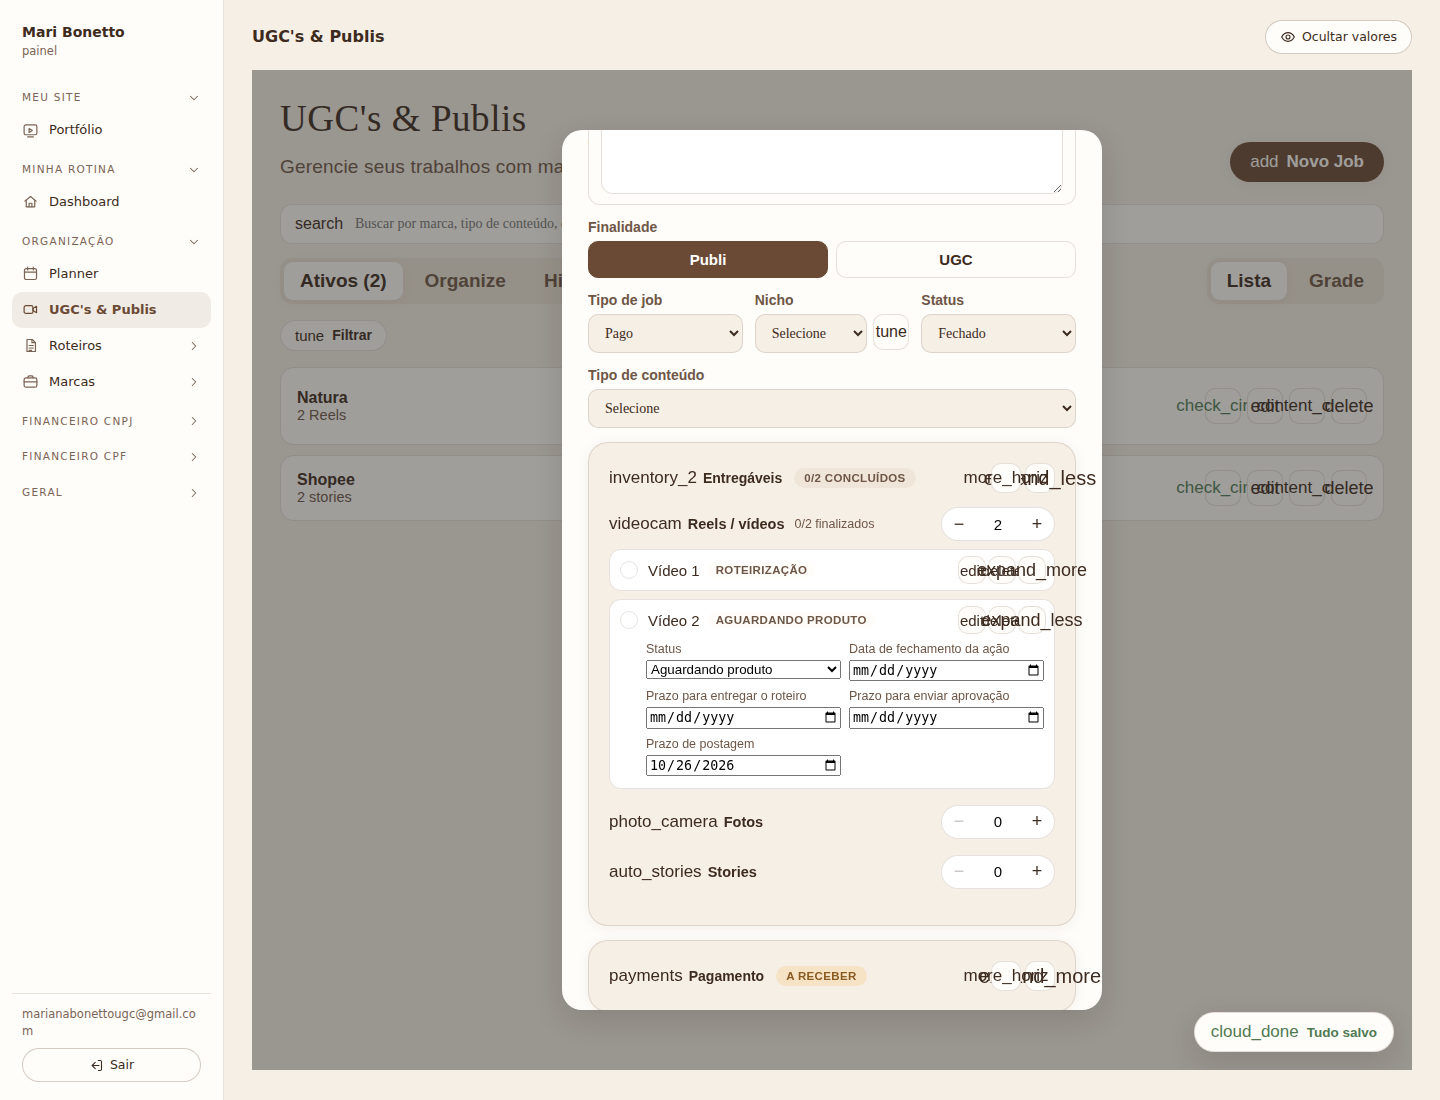
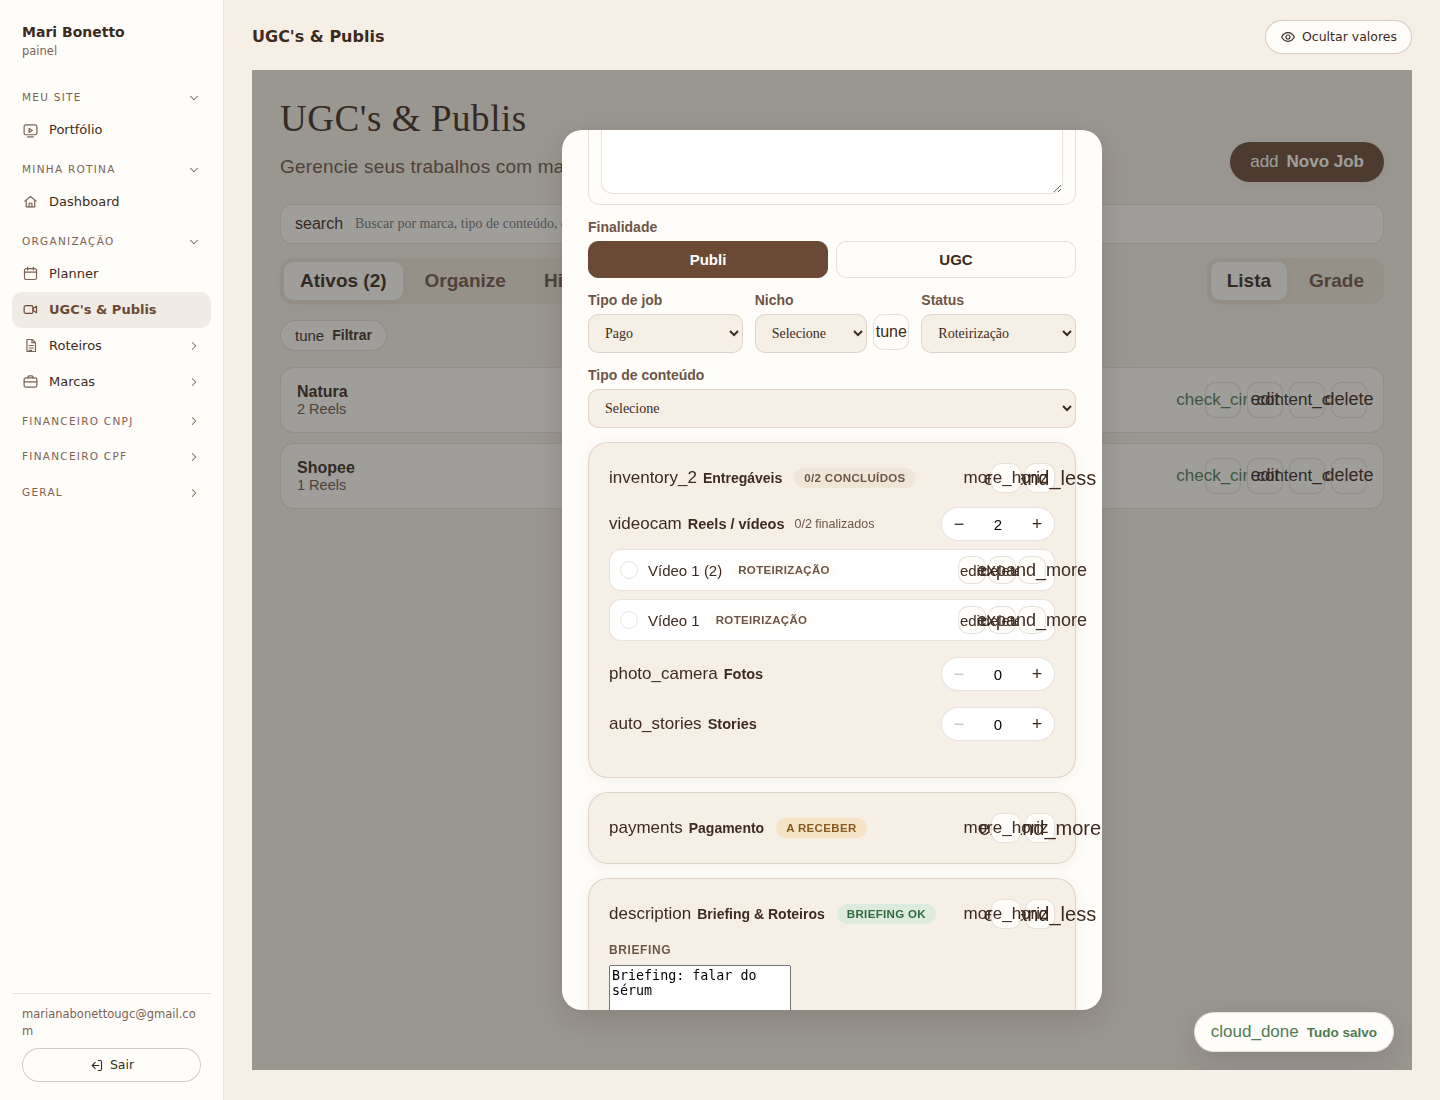
Status: Aguardando briefing (primeira etapa, no job, nos Reels e nas bolinhas do Dashboard)
Claude-Session: https://claude.ai/code/session_01BYPpPeCPa8ZJ1JieUtNXtS

diff --git a/admin/gestao/index.html b/admin/gestao/index.html
@@ -176,7 +176,7 @@
   .db-prio-nome b{ font-family:var(--db-serif); font-weight:400; font-size:28px; line-height:1.15; }
   .db-selo{ background:var(--db-bege); color:var(--db-cafe); font-size:12px; font-weight:500; letter-spacing:.04em; text-transform:uppercase; padding:5px 12px; border-radius:8px; }
   .db-prio-sub{ margin:4px 0 0; font-size:15px; color:var(--db-suave); }
-  .db-etapas{ display:grid; grid-template-columns:repeat(7,1fr); }
+  .db-etapas{ display:grid; grid-template-columns:repeat(8,1fr); }
   .db-etapas-grande{ margin-top:20px; }
   .db-etapa{ position:relative; display:flex; flex-direction:column; align-items:center; gap:8px; }
   .db-etapa::before{ content:""; position:absolute; top:7px; left:-50%; width:100%; height:1.5px; background:var(--db-linha2); }
@@ -890,7 +890,7 @@ function Toggle({on, onClick}){
 
 /* ---------- STATUS maps ---------- */
 // status do job (out/2026, pedido da Mari); os antigos continuam aparecendo nos jobs que já tinham
-const JOB_STATUS = ["Aguardando Produto","Roteirização","Aprovação de Roteiro","Conteúdo Entregue","Aprovação do Conteúdo","Refação","Finalizado","Cancelado"];
+const JOB_STATUS = ["Aguardando Briefing","Aguardando Produto","Roteirização","Aprovação de Roteiro","Conteúdo Entregue","Aprovação do Conteúdo","Refação","Finalizado","Cancelado"];
 const statusDoJobLista = (state, atual) => { const l = [...JOB_STATUS, ...((state && state.statusJobExtras)||[])]; return atual && !l.includes(atual) ? [atual, ...l] : l; };;
 const JOB_FINISHED = ["Finalizado","Cancelado"];
 const isHistorico = (j) => j.status==="Finalizado" || (j.pagamento && j.pagamento.status==="Pago");
@@ -898,13 +898,13 @@ const jobStatusTone = (s) => ({
   "Lead":"gray","Em Negociação":"yellow","Fechado":"blue","Aguardando Aprovação":"wine","Aguardando Produto":"yellow",
   "Aprovado":"blue","Planejado":"yellow","Em Produção":"blue","Gravado":"wine","Conteúdo Entregue":"green",
   "Finalizado":"green","Cancelado":"gray",
-  "Roteirização":"yellow","Aprovação de Roteiro":"wine","Aprovação do Conteúdo":"wine","Refação":"yellow"
+  "Aguardando Briefing":"yellow","Roteirização":"yellow","Aprovação de Roteiro":"wine","Aprovação do Conteúdo":"wine","Refação":"yellow"
 }[s] || "gray");
 const KANBAN_COLORS = {
   "Lead":"#3d2b20","Em Negociação":"#6b4a35","Fechado":"#a87058","Aguardando Aprovação":"#8a634b","Aguardando Produto":"#6B4E3D",
   "Aprovado":"#a87058","Planejado":"#3d2b20","Em Produção":"#6b4a35","Gravado":"#8a634b","Conteúdo Entregue":"#a87058",
   "Finalizado":"#6B4E3D","Cancelado":"#8a634b",
-  "Roteirização":"#6b4a35","Aprovação de Roteiro":"#8a634b","Aprovação do Conteúdo":"#8a634b","Refação":"#a87058"
+  "Aguardando Briefing":"#3d2b20","Roteirização":"#6b4a35","Aprovação de Roteiro":"#8a634b","Aprovação do Conteúdo":"#8a634b","Refação":"#a87058"
 };
 const PAYMENT_METHODS = ["PIX","Transferência","Boleto","Cartão","PayPal","Outro"];
 const MOEDAS = [{code:"BRL",symbol:"R$"},{code:"USD",symbol:"US$"},{code:"EUR",symbol:"€"}];
@@ -915,7 +915,7 @@ const fmtMoneyCur = (v, moeda) => {
 const NICHOS_DEFAULT = ["Beleza","Maternidade","Pet","Casa","Moda","Eletrônicos","Alimentos","Infantil","Fitness","Outro"];
 // status de cada vídeo/story do job: as mesmas etapas da "Minha prioridade" do Dashboard (a última é Entregue)
 // out/2026 (pedido da Mari): as etapas de cada Reels/story; a última (Finalizado) marca como concluído
-const ROTEIRO_STATUS_OPTIONS = ["Aguardando produto","Roteirização","Aprovação de roteiro","Conteúdo entregue","Aprovação do conteúdo","Refação","Finalizado"];
+const ROTEIRO_STATUS_OPTIONS = ["Aguardando briefing","Aguardando produto","Roteirização","Aprovação de roteiro","Conteúdo entregue","Aprovação do conteúdo","Refação","Finalizado"];
 const STATUS_FINAL = (tipo) => tipo==="fotos" ? "Entregue" : "Finalizado";
 // nomes antigos (antes de out/2026) -> nomes novos
 const STATUS_VIDEO_ANTIGO = {"Roteiro pendente":"Roteirização", "Roteiro pronto":"Aprovação de roteiro", "Gravado":"Aprovação de roteiro", "Editado":"Aprovação do conteúdo",
@@ -1179,7 +1179,7 @@ function processRecurringJobs(state){
     if(j.recorrencia.encerrarEm && j.recorrencia.proximaCriacao > j.recorrencia.encerrarEm) return j;
     changed = true;
     const clone = {
-      ...j, id:uid(), criadoEm: today, status:"Aguardando Produto",
+      ...j, id:uid(), criadoEm: today, status:"Aguardando Briefing",
       prazoEntrega: j.recorrencia.proximaCriacao, dataEntregaReal:"",
       entregaveis: resetEntregaveisConcluido(j.entregaveis || emptyEntregaveis()),
       pagamento: {...(j.pagamento||{}), status:"Em aberto", dataPagamento:""},
@@ -1275,8 +1275,8 @@ function LineChart({data, width, height}){
 /* ---------- DASHBOARD (board novo, igual ao modelo da Mari) ---------- */
 const ETAPAS_JOB = ROTEIRO_STATUS_OPTIONS;
 // etapa do job na "Minha prioridade" (ordem de prioridade em etapaDoJob); as bolinhas são clicáveis (jobNaEtapa)
-const ETAPA_JOB_DO_STATUS = {"Aguardando Produto":0, "Roteirização":1, "Aprovação de Roteiro":2, "Em Produção":2, "Gravado":2, "Conteúdo Entregue":3, "Aguardando Aprovação":4, "Aprovação do Conteúdo":4, "Refação":5, "Finalizado":6};
-const ETAPA_JOB_DO_QUADRO = {"Ideias":1, "Roteirização":1, "Revisão":1, "Em Aprovação":2, "Gravação":2, "Edição":2, "Pronto para postar":4, "Pronto p/ Postar":4, "Finalizado":6};
+const ETAPA_JOB_DO_STATUS = {"Aguardando Briefing":0, "Aguardando Produto":1, "Roteirização":2, "Aprovação de Roteiro":3, "Em Produção":3, "Gravado":3, "Conteúdo Entregue":4, "Aguardando Aprovação":5, "Aprovação do Conteúdo":5, "Refação":6, "Finalizado":7};
+const ETAPA_JOB_DO_QUADRO = {"Ideias":2, "Roteirização":2, "Revisão":2, "Em Aprovação":3, "Gravação":3, "Edição":3, "Pronto para postar":5, "Pronto p/ Postar":5, "Finalizado":7};
 const etapaDoJob = (job, roteiros) => Math.max(ETAPA_JOB_DO_STATUS[job && job.status] ?? 0, etapaDoAndamento(job, roteiros));
 // o status do job (Em Produção, Conteúdo Entregue...) é o mínimo; o andamento dos conteúdos pode estar mais adiantado
 const etapaDoAndamento = (job, roteiros) => {
@@ -3001,7 +3001,7 @@ function defaultJobObj(){
     tipoPagamento:"unico", divisaoParcelas:"50-50", parcelasPersonalizadas:[],
     recorrente:false,
     recorrencia:{ frequencia:"Mensal (30d)", intervaloDias:30, proximaCriacao:"", encerrarEm:"", gerarReceita:true },
-    status:"Aguardando Produto",
+    status:"Aguardando Briefing",
     roteiroConteudo:"", roteiroStatus:"Em criação", roteiroTemplate:"",
     nf:{ precisa:false, status:"Pendente", numero:"", dataEmissao:"", valor:"", arquivo:"" },
     pagamento:{ status:"Em aberto", forma:"PIX", dataPrevista:"", dataPagamento:"", comprovante:"" },
@@ -3906,7 +3906,7 @@ function Jobs({state, updateState}){
     updateState({...state, jobs, transacoes});
   }
   function duplicate(job){
-    const clone = { ...job, id:uid(), marca: job.marca+" (cópia)", status:"Aguardando Produto", criadoEm:todayISO(), dataEntregaReal:"",
+    const clone = { ...job, id:uid(), marca: job.marca+" (cópia)", status:"Aguardando Briefing", criadoEm:todayISO(), dataEntregaReal:"",
       pagamento:{...(job.pagamento||{}), status:"Em aberto", dataPagamento:""},
       entregaveis: resetEntregaveisConcluido(job.entregaveis || emptyEntregaveis())
     };

diff --git a/admin/index.html b/admin/index.html
@@ -7,7 +7,7 @@
 <meta http-equiv="Cache-Control" content="no-cache">
 <script>
 // Atualiza sozinho: se existir uma versão mais nova do painel publicada, recarrega a página nova
-window.VERSAO_PAINEL = "202610150158";
+window.VERSAO_PAINEL = "202610150201";
 fetch("../js/versao.json?t=" + Date.now(), { cache: "no-store" }).then((r) => r.json()).then((j) => {
   if (j.versao && j.versao !== window.VERSAO_PAINEL) {
     const u = new URL(location.href);
@@ -19,9 +19,9 @@ fetch("../js/versao.json?t=" + Date.now(), { cache: "no-store" }).then((r) => r.
 <link rel="preconnect" href="https://fonts.googleapis.com">
 <link rel="preconnect" href="https://fonts.gstatic.com" crossorigin>
 <link href="https://fonts.googleapis.com/css2?family=DM+Serif+Display&family=Poppins:wght@400;500;600&display=swap" rel="stylesheet">
-<link rel="stylesheet" href="../css/painel.css?v=202610150158">
+<link rel="stylesheet" href="../css/painel.css?v=202610150201">
 <script src="https://cdn.jsdelivr.net/npm/@supabase/supabase-js@2"></script>
-<script src="../js/banco.js?v=202610150158"></script>
+<script src="../js/banco.js?v=202610150201"></script>
 <script>
 // PRIMEIRA COISA: conferir a sessão. Sem sessão, vai para o login.
 // A página só aparece depois dessa conferência (antes ela fica escondida).
@@ -164,8 +164,8 @@ window.sessaoPronta = (async function () {
 </dialog>
 <div class="toast" id="toast" role="status"></div>
 
-<script src="../js/biblioteca.js?v=202610150158"></script>
-<script src="../js/admin.js?v=202610150158"></script>
-<script src="../js/roteiros-supadata.js?v=202610150158"></script>
+<script src="../js/biblioteca.js?v=202610150201"></script>
+<script src="../js/admin.js?v=202610150201"></script>
+<script src="../js/roteiros-supadata.js?v=202610150201"></script>
 </body>
 </html>

diff --git a/CLAUDE.md b/CLAUDE.md
@@ -53,8 +53,8 @@ https://marianabonettougc.github.io/portfoliougc/
 - Transcrição num lugar só (out/2026, pedido da Mari): o Dashboard não transcreve mais. A aba Transcrever das Inspirações, o botão Transcrever dos vídeos novos e o "Transcrever vídeo" do bloco Transcrições mandam postMessage {aba:"transcritos", link} ao painel; admin.js guarda window.linkParaTranscrever e a página Transcrever vídeo transcreve sozinha pela Supadata (e marca inspiracoes.transcrito pelo código do vídeo no link). O bloco Transcrições do Dashboard mostra as 6 últimas da tabela roteiros com capa, título e "rede · @perfil · data", igual à página. A pasta continua sendo escolhida na janela Análise do vídeo do Dashboard.
 - UGC's & Publis (JobModal, out/2026): sem Distribuir no Planner, sem campo Prazo de entrega (prazoEntrega = último prazoConteudo dos itens, comPrazoDosItens) e sem template de roteiro. Cada item de entregável tem quantidade (qtdItem/qtdItens; datas diferentes = outra linha); Data de postagem só na Publi. Roteiro do conteúdo: só importar (ImportarRoteiroJob: Google Docs pela função google-docs ou um roteiro de state.roteiros). Nota fiscal (NotaFiscalJob): anexa PDF (pdf.js) ou XML e lê número, valor e data de emissão; o valor da nota vira o valor do job. Pagamento: data prevista, "Pagamento recebido?" e comprovante.
 - Financeiro unificado com os jobs: o job gera o lançamento (syncTransacaoFromJob) e editar/confirmar no Financeiro volta para o job (aplicarTransacaoNoJob). Anexos (nota e comprovante) ficam no Storage, bucket privado "anexos" (jobs/<id>/), abertos por link assinado (abrirAnexo); aparecem no job, na janela do lançamento do Financeiro e em Contabilidade > Documentos (marcados "do job").
-- JobModal reorganizado (out/2026): Marca, Escopo do cliente (f.escopo, caixa que abre e fecha logo abaixo da marca), Finalidade, linha com Tipo de job | Nicho | Status, Tipo de conteúdo. Depois as partes (SecaoJob) Pagamento (só quando Tipo de job = Pago: data de fechamento, prazo de pagamento, valor, moeda, forma, sub-partes Tipo de pagamento, Job recorrente, Nota fiscal e recebimento), Entregáveis (EntregaveisJob: quantidade de Reels/fotos/stories com − / +, uma ficha por item com Status, Data de fechamento da ação, Prazo para entregar o roteiro (prazoRoteiro), Prazo para enviar aprovação (prazoConteudo), Prazo de postagem (prazoPostagem, só Publi); renomear, subir/descer, excluir, minimizar), Briefing & Roteiros (briefing escrito em f.briefing + arquivos em f.briefingArquivos no Storage jobs/<id>/briefing, e embaixo ImportarRoteiroJob), Tráfego, Observações. Cada parte minimiza, renomeia e oculta e muda de lugar arrastando igual ao Trello, sem ícone (useArrastar: mouse no cabeçalho; no celular segura 0,35 s e arrasta; os Reels também); layout em state.jobLayout (layoutJob). Status: ROTEIRO_STATUS_OPTIONS = Aguardando produto, Roteirização, Aprovação de roteiro, Conteúdo entregue, Aprovação do conteúdo, Refação, Finalizado (também as bolinhas da Minha prioridade); status criados por ela em state.statusExtras; nomes antigos convertidos em STATUS_VIDEO_ANTIGO. updateState do App aceita função (s => novo) para salvamentos seguidos não se apagarem (persistJob/persistJobTraf usam).
-- Status do job (JOB_STATUS, out/2026): Aguardando Produto, Roteirização, Aprovação de Roteiro, Conteúdo Entregue, Aprovação do Conteúdo, Refação, Finalizado, Cancelado + os criados por ela (state.statusJobExtras, "+ Adicionar outro status"). Status antigos (Fechado, Lead...) continuam nos jobs que já tinham e viram coluna extra no Organize. Lista e Grade em ordem de fechamento (a mais antiga primeiro; empate fica na ordem de cadastro) e com as datas Fechamento | Postagem (DatasJob; todas as datas de postagem dos itens, postagensDoJob).
+- JobModal reorganizado (out/2026): Marca, Escopo do cliente (f.escopo, caixa que abre e fecha logo abaixo da marca), Finalidade, linha com Tipo de job | Nicho | Status, Tipo de conteúdo. Depois as partes (SecaoJob) Pagamento (só quando Tipo de job = Pago: data de fechamento, prazo de pagamento, valor, moeda, forma, sub-partes Tipo de pagamento, Job recorrente, Nota fiscal e recebimento), Entregáveis (EntregaveisJob: quantidade de Reels/fotos/stories com − / +, uma ficha por item com Status, Data de fechamento da ação, Prazo para entregar o roteiro (prazoRoteiro), Prazo para enviar aprovação (prazoConteudo), Prazo de postagem (prazoPostagem, só Publi); renomear, subir/descer, excluir, minimizar), Briefing & Roteiros (briefing escrito em f.briefing + arquivos em f.briefingArquivos no Storage jobs/<id>/briefing, e embaixo ImportarRoteiroJob), Tráfego, Observações. Cada parte minimiza, renomeia e oculta e muda de lugar arrastando igual ao Trello, sem ícone (useArrastar: mouse no cabeçalho; no celular segura 0,35 s e arrasta; os Reels também); layout em state.jobLayout (layoutJob). Status: ROTEIRO_STATUS_OPTIONS = Aguardando briefing, Aguardando produto, Roteirização, Aprovação de roteiro, Conteúdo entregue, Aprovação do conteúdo, Refação, Finalizado (também as bolinhas da Minha prioridade); status criados por ela em state.statusExtras; nomes antigos convertidos em STATUS_VIDEO_ANTIGO. updateState do App aceita função (s => novo) para salvamentos seguidos não se apagarem (persistJob/persistJobTraf usam).
+- Status do job (JOB_STATUS, out/2026): Aguardando Briefing, Aguardando Produto, Roteirização, Aprovação de Roteiro, Conteúdo Entregue, Aprovação do Conteúdo, Refação, Finalizado, Cancelado + os criados por ela (state.statusJobExtras, "+ Adicionar outro status"). Status antigos (Fechado, Lead...) continuam nos jobs que já tinham e viram coluna extra no Organize. Lista e Grade em ordem de fechamento (a mais antiga primeiro; empate fica na ordem de cadastro) e com as datas Fechamento | Postagem (DatasJob; todas as datas de postagem dos itens, postagensDoJob).
 - Direitos de uso (tráfego pago): além de 3, 6, 12 meses e Permanente, "Outro" com número de meses (chave "Nm", rotuloPeriodo/calcDataFim). Contrato em PDF anexado no job (trafegoPago.contratoArquivo/contratoCaminho, Storage jobs/<id>/contrato), aparece também em Contabilidade > Documentos (Contratos).
 - Lista, grade e Dashboard descrevem o job pelos entregáveis (resumoEntregas: "2 Reels · 1 foto · 2 stories"), não pelo Tipo de conteúdo; na grade só aparecem os ícones dos tipos que existem (Reels, fotos, stories).
 - Status do job e dos Reels/stories ligados: mudar o status do job leva todos os itens junto (itensNoStatusDoJob); mudar um item deixa o job no status do item mais atrasado (statusDoJobPelosItens); ao abrir, itens atrás do status do job sobem até ele (itensAteStatusDoJob); as bolinhas do Dashboard (jobNaEtapa) também mudam o status do job.
